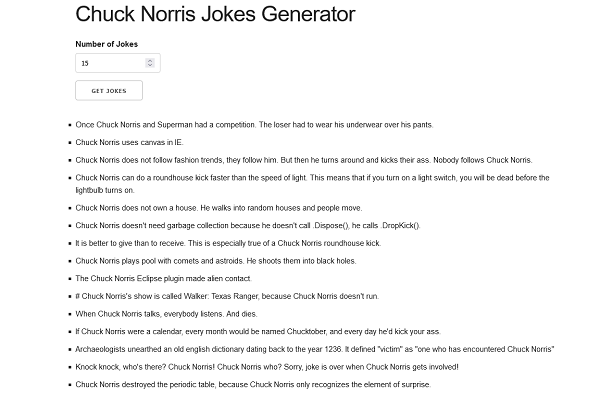
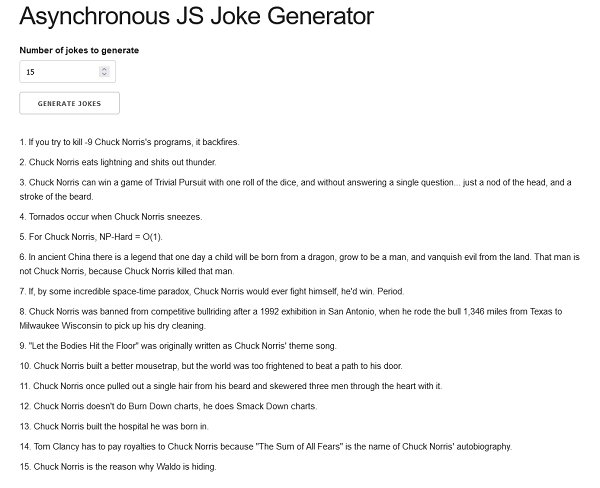
plagiarism check edit

diff --git a/content/articles/Async-js-using-ajax/index.md b/content/articles/Async-js-using-ajax/index.md
@@ -54,21 +54,20 @@ This tutorial aims to create a webpage that gets random jokes from the [Chuck No
 
   ```html
   <div class="container">
-    <h2>Chuck Norris Jokes Generator</h2>
     <form>
       <div>
-        <label for="number"> Number of Jokes</label>
-        <input type="number" id="number" />
+        <label for="number"> Number of jokes to generate</label>
+        <input id="number-of-jokes" type="number" id="number" />
       </div>
 
       <div>
-        <button class="get-jokes">Get Jokes</button>
+        <button id="generate-jokes">Generate Jokes</button>
       </div>
     </form>
   </div>
   ```
 
-- Create an unordered list (ul) for the jokes to render below the form
+- Create an ordered list (`ol`) for the jokes to render below the form
 - Create a JavaScript file and save it with index.js
 - Include the `index.js`
 
@@ -81,6 +80,7 @@ This tutorial aims to create a webpage that gets random jokes from the [Chuck No
       <meta charset="UTF-8" />
       <meta http-equiv="X-UA-Compatible" content="IE=edge" />
       <meta name="viewport" content="width=device-width, initial-scale=1.0" />
+
       <!-- Skeleton CSS -->
       <link
         rel="stylesheet"
@@ -89,29 +89,25 @@ This tutorial aims to create a webpage that gets random jokes from the [Chuck No
         crossorigin="anonymous"
         referrerpolicy="no-referrer"
       />
-      <style>
-        ul {
-          list-style: square;
-        }
-      </style>
 
-      <title>External API: Chuck Norris Jokes Generator</title>
+      <title>Getting Jokes from External API</title>
     </head>
     <body>
       <div class="container">
-        <h2>Chuck Norris Jokes Generator</h2>
+        <h2>Asynchronous JS Joke Generator</h2>
         <form>
           <div>
-            <label for="number"> Number of Jokes</label>
-            <input class="numbers" type="number" id="number" />
+            <label for="number"> Number of jokes to generate</label>
+            <input id="number-of-jokes" type="number" id="number" />
           </div>
 
           <div>
-            <button class="get-jokes">Get Jokes</button>
+            <button id="generate-jokes">Generate Jokes</button>
           </div>
         </form>
-        <ul class="jokes"></ul>
+        <ol id="jokes"></ol>
       </div>
+
       <script src="./index.js"></script>
     </body>
   </html>
@@ -121,46 +117,54 @@ This tutorial aims to create a webpage that gets random jokes from the [Chuck No
 
 - Open Index.js
 - Grab the button from the DOM
+
   ```javascript
-  const button = document.querySelector(.get-jokes);
+  const button = document.querySelector("#generate-jokes");
   ```
+
 - Add an event listener to the button to listen for a click
   ```javascript
-  button.addEventListener("click", getJokes);
+  button.addEventListener("click", generateNewJokes);
   ```
 
 ### Prepare the AJAX Request
 
-- Create a function name for the click event
+- Create a function named `generateNewJokes()` for the click event
 - Grab the number from the UI and assign it to a variable
-- Create a variable called xhr and set it to new [XHR](https://en.wikipedia.org/wiki/XMLHttpRequest) object
+- Create a variable called request and set it to new [XHR](https://en.wikipedia.org/wiki/XMLHttpRequest) object
 
   ```javascript
-  function getJokes(e) {
-    const number = document.querySelector(".numbers").value;
-    const xhr = new XMLHttpRequest();
+  function generateNewJokes(e) {
+    const newXHRRequest = new XMLHttpRequest();
+    const numberOfJokes = document.querySelector("#number-of-jokes").value;
   }
   ```
 
-  > **_XMLHttpRequest (XHR)_** objects are used to interact with servers. You can retrieve data from a URL without having to do a full page refresh. This enables a Web page to update just part of a page without disrupting what the user is doing, [MDN](https://developer.mozilla.org/en-US/docs/Web/API/XMLHttpRequest).
+  > "**_XMLHttpRequest (XHR)_** objects are used to interact with servers. You can retrieve data from a URL without having to do a full page refresh. This enables a Web page to update just part of a page without disrupting what the user is doing" - [MDN](https://developer.mozilla.org/en-US/docs/Web/API/XMLHttpRequest).
 
-- Create the object, xhr.open() takes three parameters:
+- Create the object, newXHRRequest.open() takes three parameters:
 
-  - The request, which is [GET method](https://developer.mozilla.org/en-US/docs/Web/HTTP/Methods)
+  - The newXHRRequest, which is [GET method](https://developer.mozilla.org/en-US/docs/Web/HTTP/Methods)
   - The link and append the number variable to get the numbers entered by the user and pass it to the.
   - Set the last variable to true to make it asynchronous
 
   ```javascript
-  xhr.open("GET", `http://api.icndb.com/jokes/random/${number}`, true);
+  newXHRRequest.open(
+    "GET",
+    `http://api.icndb.com/jokes/random/${numberOfJokes}`,
+    true
+  );
   ```
 
-### xhr.onload
+### newXHRRequest.onload
 
-- Set xhr.onload to a function
+- Set `newXHRRequest.onload` to a function
 
   ```javascript
-  xhr.onload = function () {};
+  newXHRRequest.onload = function () {};
   ```
+
+**Inside the function...**
 
 - Check if [XHR STATUS](https://www.w3schools.com/xml/ajax_xmlhttprequest_response.asp) returns 200
 - Parse the response text in a JSON format to a variable
@@ -168,64 +172,76 @@ This tutorial aims to create a webpage that gets random jokes from the [Chuck No
 - Check to see if the Response Type returns success
 - If the response type returns success, create a [forEach](https://developer.mozilla.org/en-US/docs/Web/JavaScript/Reference/Global_Objects/Array/forEach) loop to loop through the values of the response to get the jokes and append the joke inside a li tag (using [template literals](https://developer.mozilla.org/en-US/docs/Web/JavaScript/Reference/Template_literals) for flexible formatting)
 - If the response type is not success, append an error response to the list item.
-- Set the innerHTML of the ul with the class of jokes to the output
+- Set the innerHTML of the `ol` with the class of jokes to the output
 
   ```javascript
   if (this.status === 200) {
-    const response = JSON.parse(this.responseText);
-    let result = "";
-    if (response.type === "success") {
-      response.value.forEach(function (joke) {
-        result += `<li>${joke.joke}</li>`;
+    const myJokes = JSON.parse(this.responseText);
+    let output = "";
+    if (myJokes.type === "success") {
+      myJokes.value.forEach(function (joke) {
+        output += `<li>${joke.joke}</li>`;
       });
     } else {
-      result += `<li>Something went wrong</li>`;
+      output += `<li>Sorry! Couldn't get jokes</li>`;
     }
 
-    document.querySelector(".jokes").innerHTML = output;
+    document.querySelector("#jokes").innerHTML = output;
   }
   ```
 
-- Then send the xhr.
+- Then, send the newXHRRequest.
 
   ```javascript
-  xhr.send();
+  newXHRRequest.send();
   ```
 
-  **_ Note_**: _To prevent the button from performing its default action, use the e.preventDefault on the function that is called when the button is clicked._
+**Please Note:**
+
+- _To prevent the button from performing its default action, use the `e.preventDefault()` on the function that is called when the button is clicked._
+- The [Chuck Norris Jokes API](http://api.icndb.com/random) can only generate random jokes, that is how the API works.
+- You can style the output to whichever way suits you..
 
 The final js file should look like this 👇:
 
 ```javascript
-button.addEventListener("click", getJokes);
+const button = document.querySelector("#generate-jokes");
 
-function getJokes(e) {
-  const xhr = new XMLHttpRequest();
-  const number = document.querySelector(".numbers").value;
-  console.log(number);
-  xhr.open("GET", `http://api.icndb.com/jokes/random/${number}`, true);
+button.addEventListener("click", generateNewJokes);
 
-  xhr.onload = function () {
+function generateNewJokes(e) {
+  const newXHRRequest = new XMLHttpRequest();
+  const numberOfJokes = document.querySelector("#number-of-jokes").value;
+
+  newXHRRequest.open(
+    "GET",
+    `http://api.icndb.com/jokes/random/${numberOfJokes}`,
+    true
+  );
+
+  newXHRRequest.onload = function () {
     if (this.status === 200) {
-      const response = JSON.parse(this.responseText);
-      let result = "";
-      if (response.type === "success") {
-        response.value.forEach(function (joke) {
-          result += `<li>${joke.joke}</li>`;
+      const myJokes = JSON.parse(this.responseText);
+      let output = "";
+      if (myJokes.type === "success") {
+        myJokes.value.forEach(function (joke) {
+          output += `<li>${joke.joke}</li>`;
         });
       } else {
-        result += `<li>Something went wrong</li>`;
+        output += `<li>Sorry! Couldn't get jokes</li>`;
       }
 
-      document.querySelector(".jokes").innerHTML = output;
+      document.querySelector("#jokes").innerHTML = output;
     }
   };
 
-  xhr.send();
+  newXHRRequest.send();
 
   e.preventDefault();
 }
 ```
+
+**Output**
 
 ![Output](output.png "Final Output")
 
